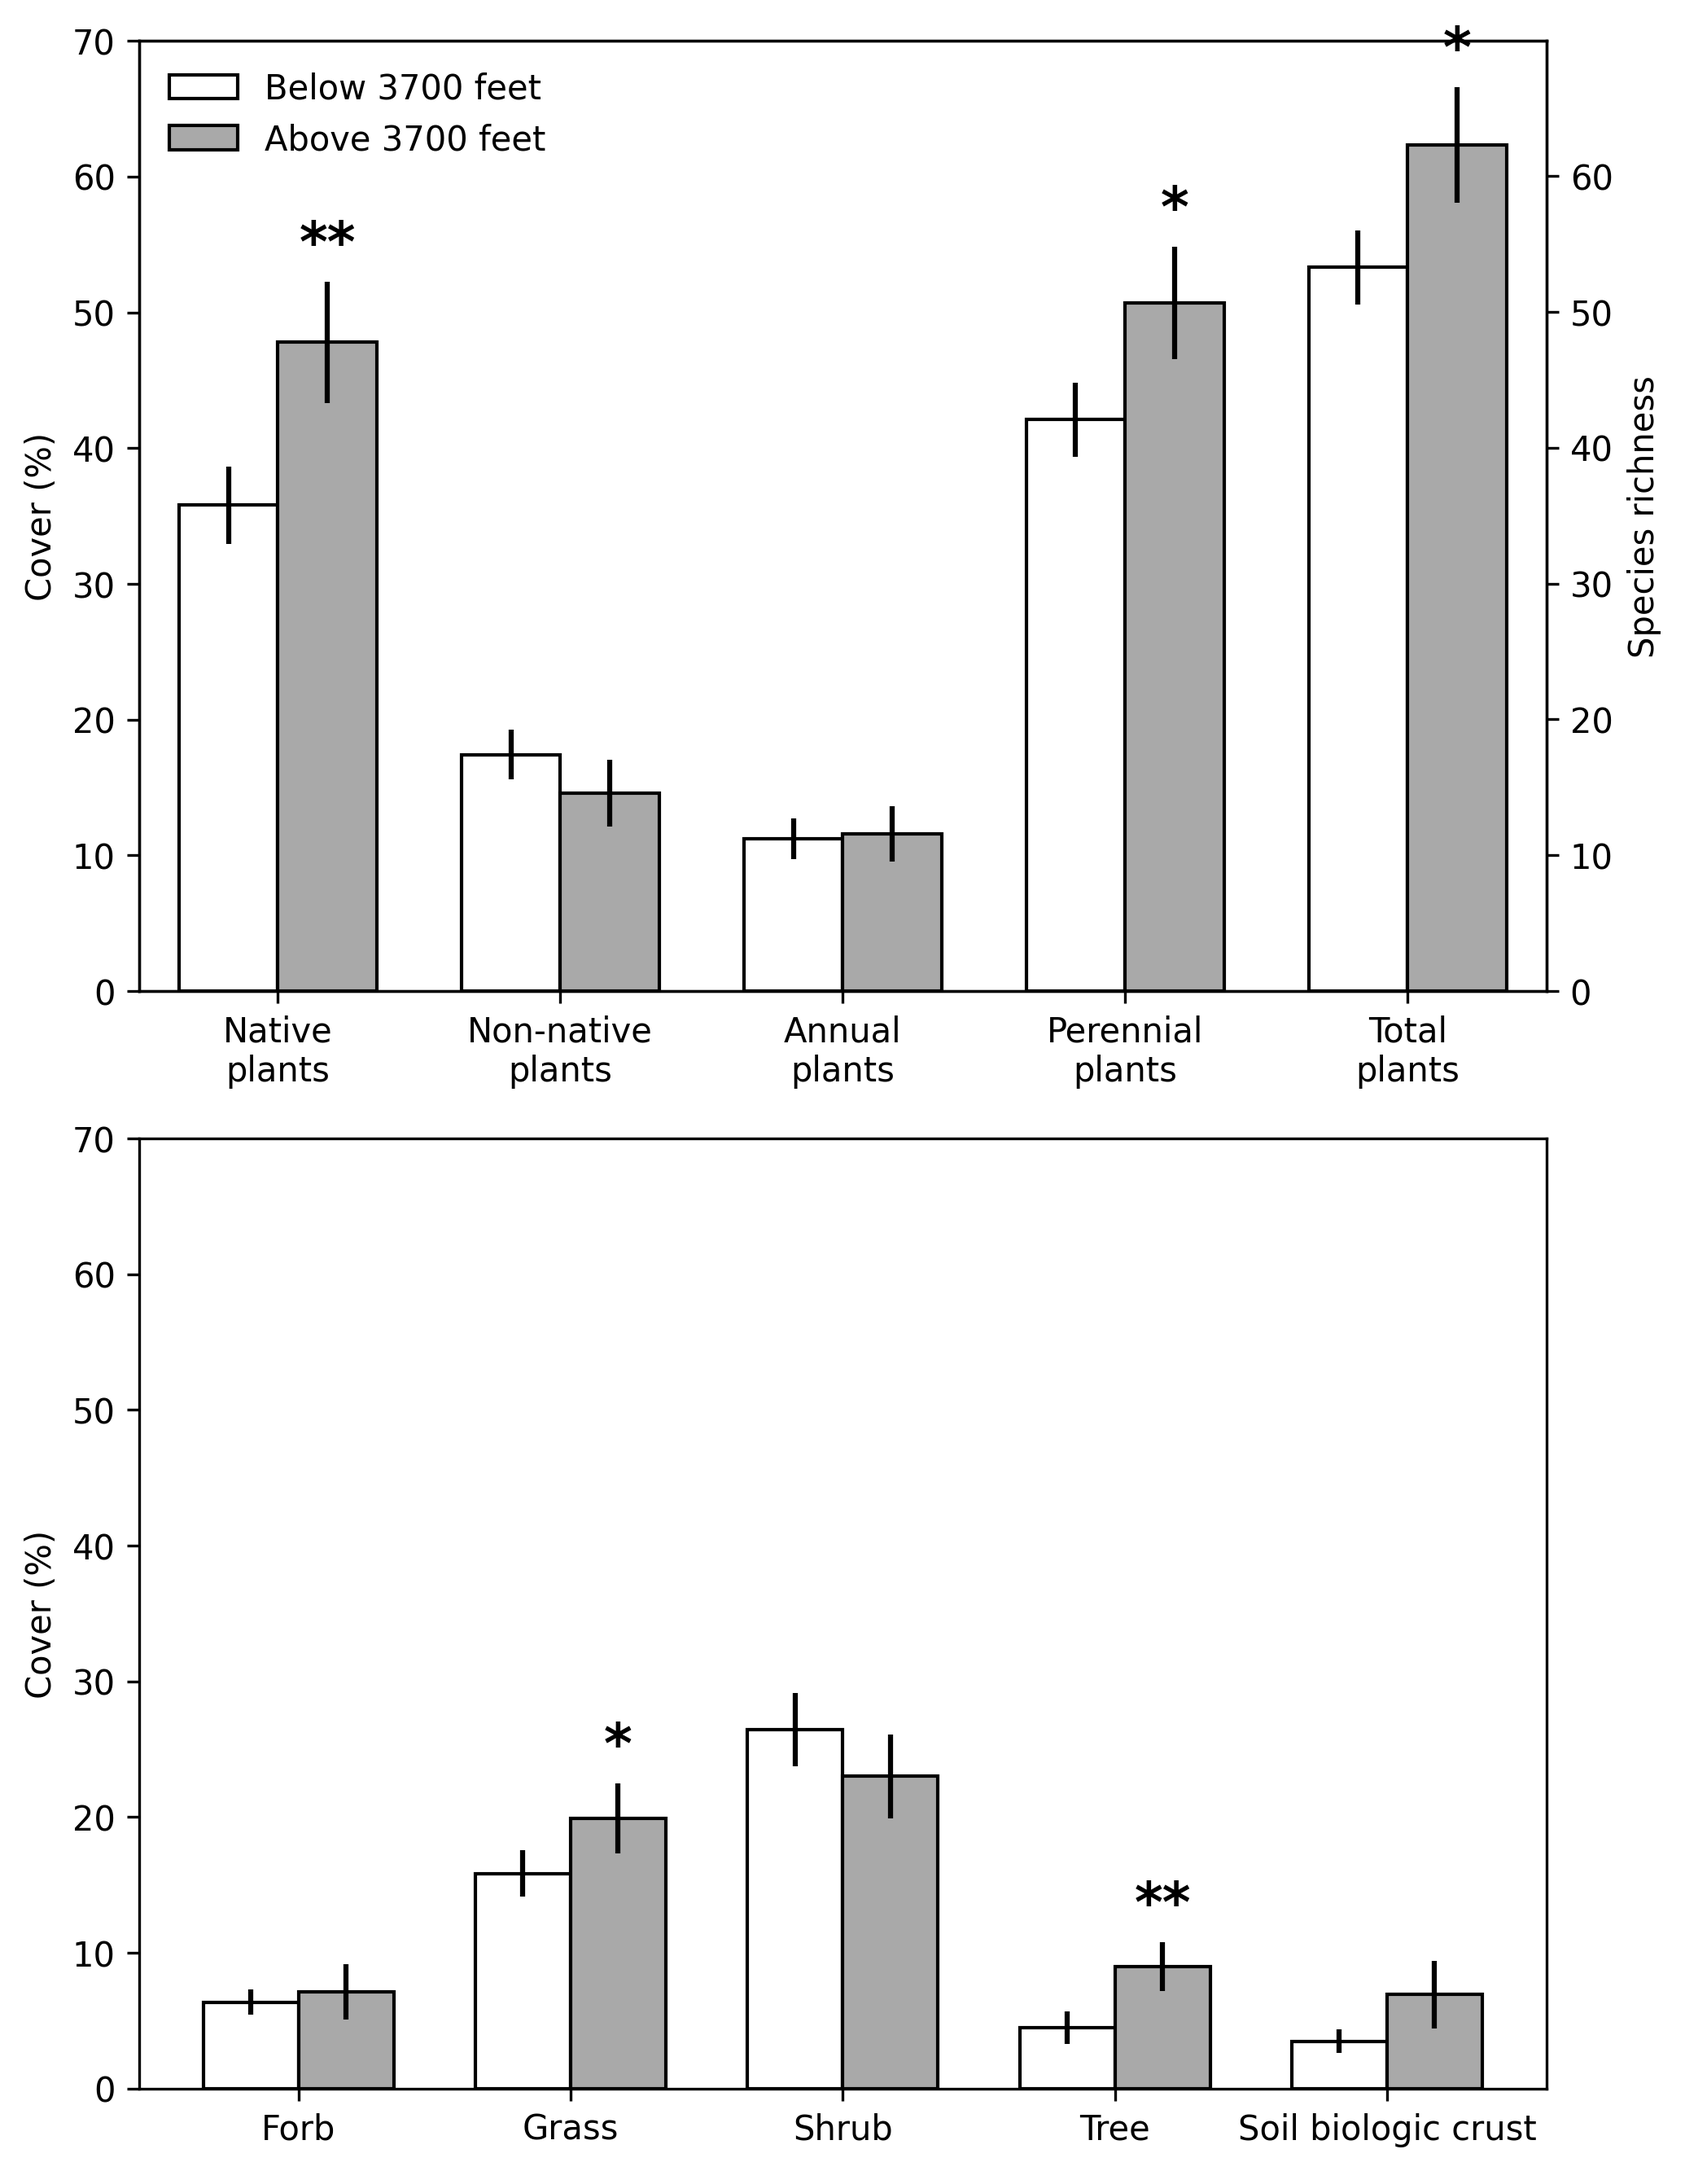
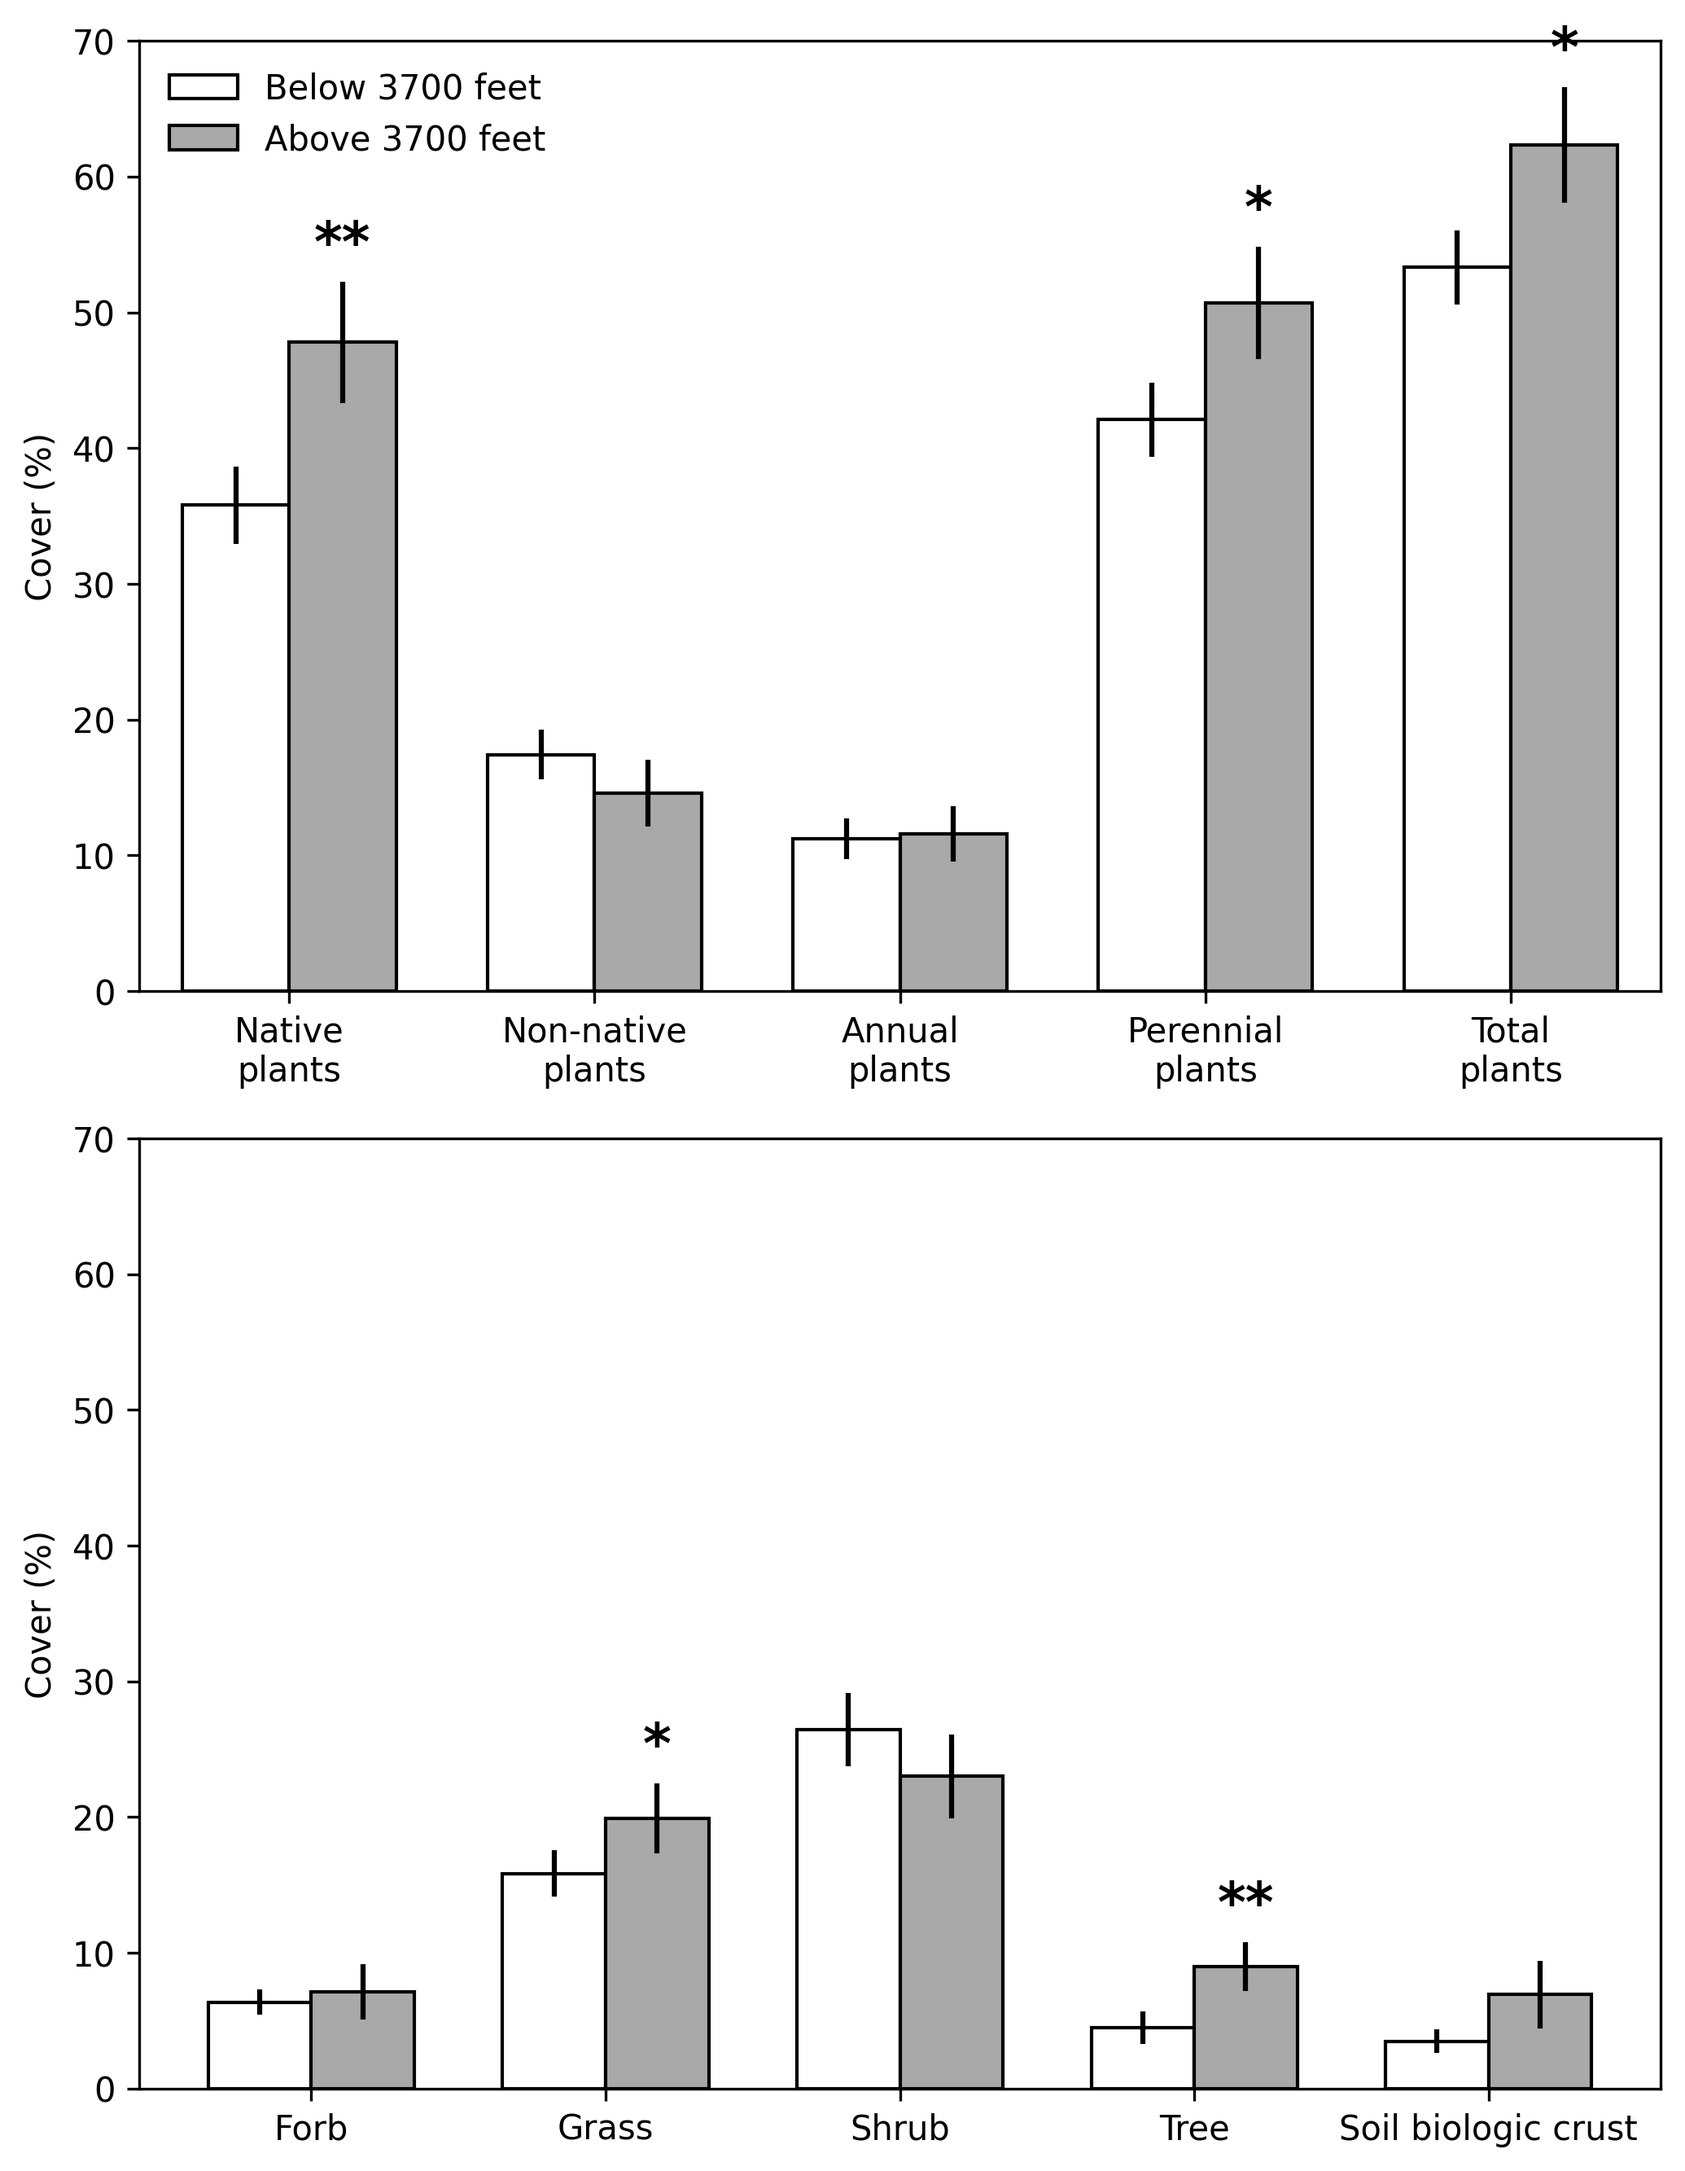
analysis_evening_030726

diff --git a/script/F6.2panel.fgroup.letters.py b/script/F6.2panel.fgroup.letters.py
@@ -142,7 +142,7 @@ for i, a in enumerate(age_classes):
         bar_patches[(g, a)] = cont.patches[j]
 
 ax1.set_xticks(x)
-ax1.set_xticklabels(["Forb", "Grass", "Shrub", "Tree", "All plants", "Biologic crust"], fontsize=13)
+ax1.set_xticklabels(["Forb", "Grass", "Shrub", "Tree", "All plants", "SBC"], fontsize=13)
 ax1.set_ylabel("Cover (%)", fontsize=14)
 #ax1.set_xlabel("Functional Group")
 ax1.set_ylim(0, max(1, (means.values + ses.values).max() * 1.10))
@@ -184,8 +184,13 @@ pivot.plot(kind="bar", stacked=True, color=colors, ax=ax2)
 
 ax2.set_xlabel("Landscape age", fontsize=14)
 ax2.set_ylabel("Proportion of cover", fontsize=14)
+# Set ticks based on pivot index
 ax2.set_xticks(range(len(pivot.index)))
-ax2.set_xticklabels(pivot.index.astype(str), rotation=0, ha="center")
+
+labels = pivot.index.astype(str).tolist()
+labels[-1] = ">50"   # change only the last label
+
+ax2.set_xticklabels(labels, rotation=0, ha="center")
 ax2.set_ylim(0, 1)
 
 # ✅ Bottom legend: wide, horizontal categories, above the bottom panel (outside axes)

diff --git a/script/F5.parameter.ageclass.letters.py b/script/F5.parameter.ageclass.letters.py
@@ -166,9 +166,29 @@ axes[2].errorbar(
     x, herbaceous_m, yerr=herbaceous_se,
     capsize=0, **line_kw, **marker2, label="Herbaceous"
 )
+
 axes[2].set_ylabel("Cover (%)", fontsize=14)
 axes[2].set_xlabel("Landscape age", fontsize=14)
+
+# Replace last tick label
+axes[2].set_xticks(x)
+axes[2].set_xticklabels(["1", "2", "4", "6", "12", "25", "40", ">50"])
+
 axes[2].legend(loc="lower right", frameon=True)
+# -----------------------------
+# BOTTOM — Herbaceous and woody vegetation
+# -----------------------------
+#axes[2].errorbar(
+#    x, woody_m, yerr=woody_se,
+#    capsize=0, **line_kw, **marker1, label="Woody"
+#)
+#axes[2].errorbar(
+#    x, herbaceous_m, yerr=herbaceous_se,
+#    capsize=0, **line_kw, **marker2, label="Herbaceous"
+#)
+#axes[2].set_ylabel("Cover (%)", fontsize=14)
+#axes[2].set_xlabel("Landscape age", fontsize=14)
+#axes[2].legend(loc="lower right", frameon=True)
 
 # --- BOTTOM PANEL LETTERS (as previously requested) ---
 

diff --git a/script/F5.parameter.abv.blw.py b/script/F5.parameter.abv.blw.py
@@ -61,11 +61,6 @@ axes[0].margins(x=0.03)
 axes[0].set_ylabel("Cover (%)")
 axes[0].legend(frameon=False)
 
-# Add right-hand axis for species richness (same scale)
-ax0_right = axes[0].twinx()
-ax0_right.set_ylabel("Species richness")
-ax0_right.set_ylim(axes[0].get_ylim())
-
 # =========================================================
 # BOTTOM PANEL — Functional groups
 # =========================================================
